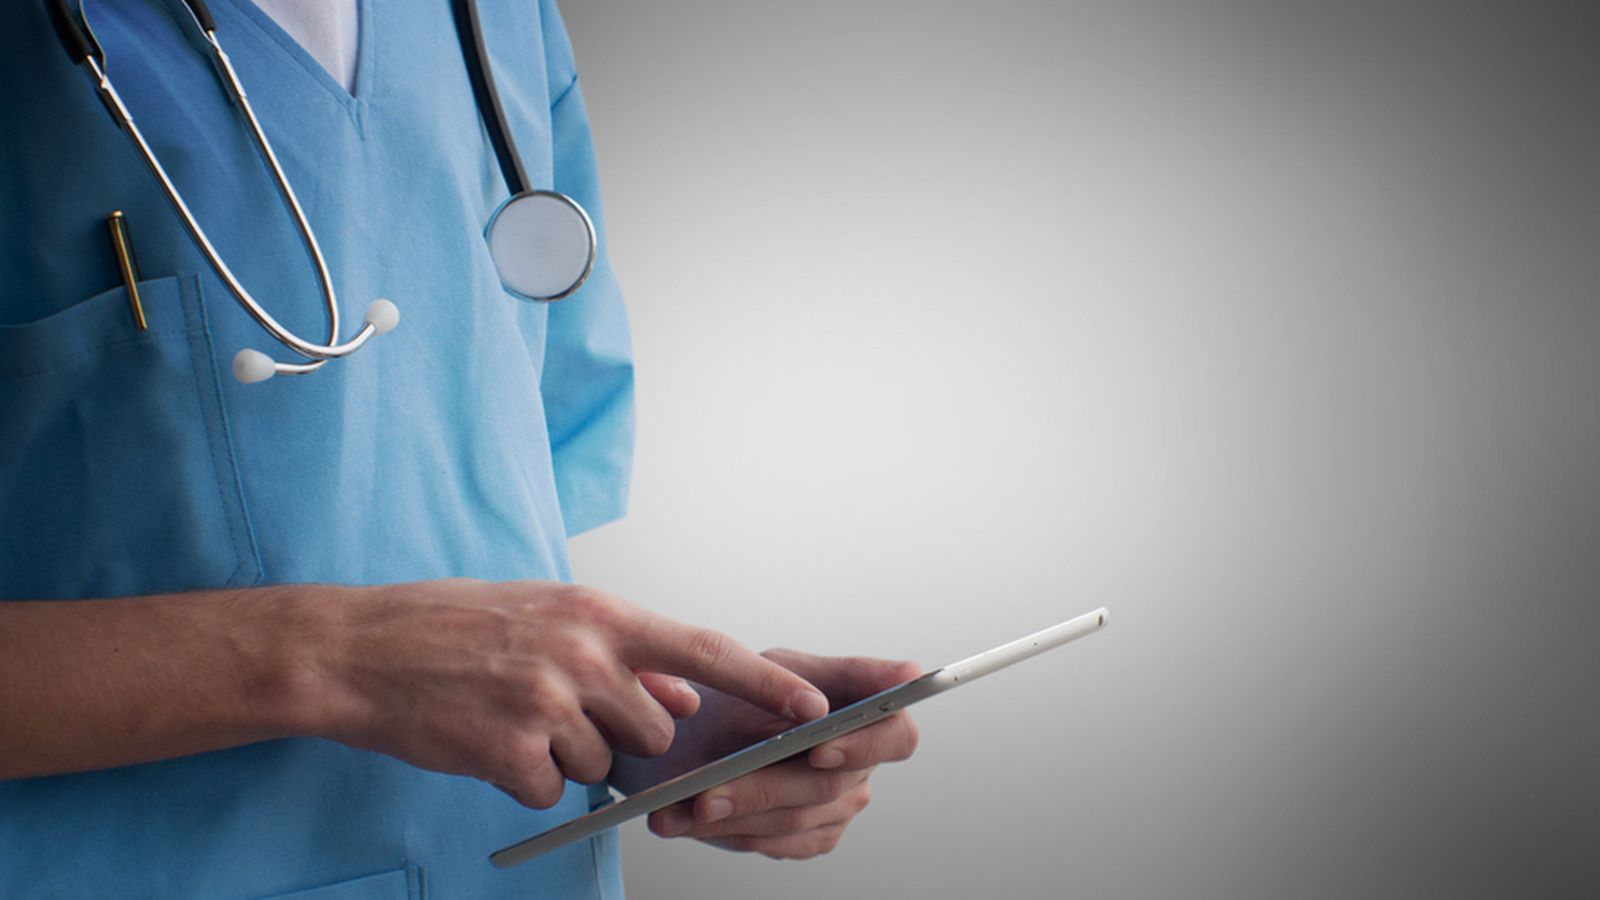
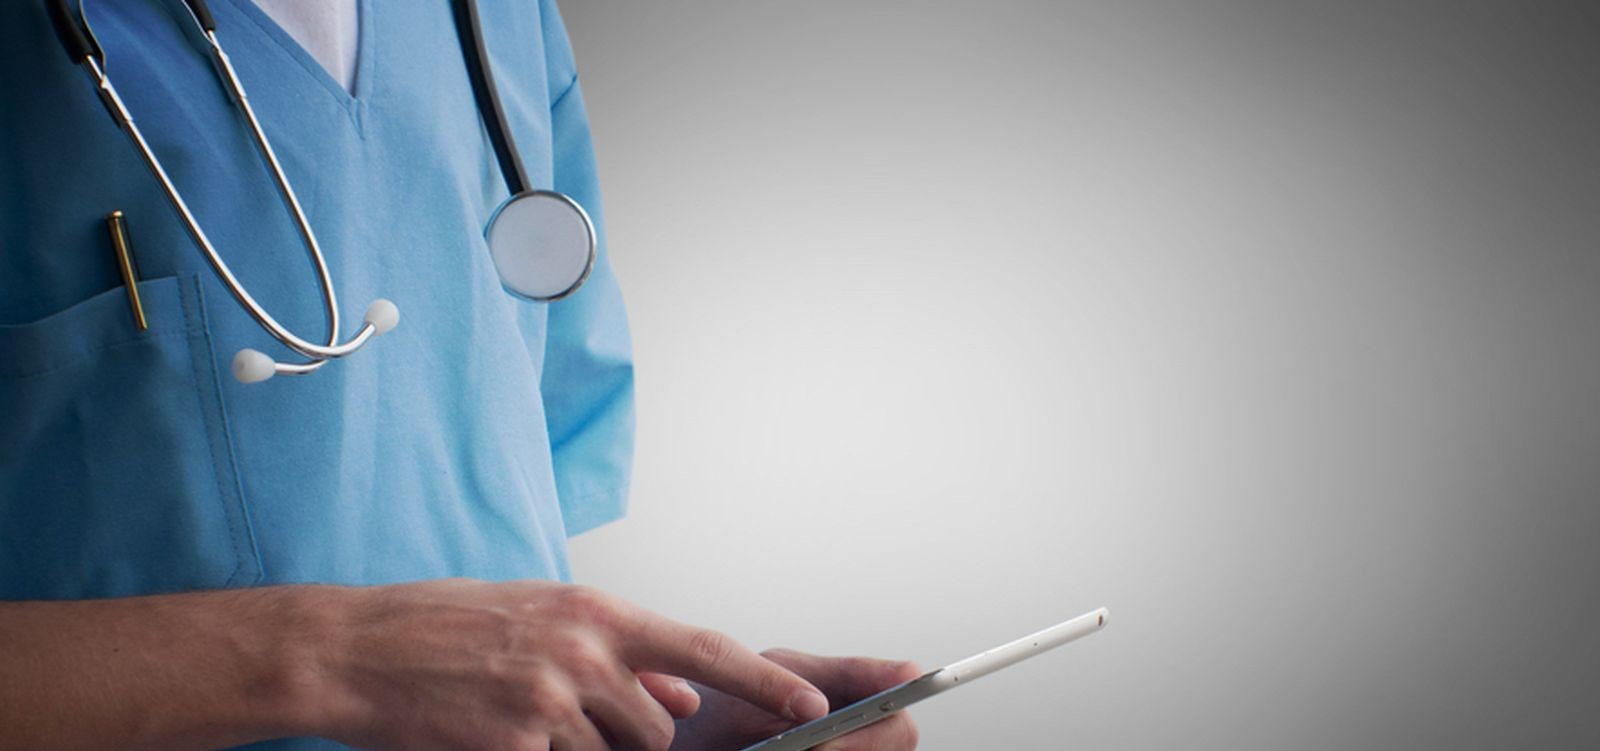
Login form completed

diff --git a/login/login.scss b/login/login.scss
@@ -1,6 +1,7 @@
 #backgroundImage{
     img{
-        height: 700px;
+        height: 701px;
+        width: 1515px;
         filter: blur(5px);
         opacity: 75%;
     }
@@ -49,16 +50,16 @@
     position: absolute;
     z-index: 1;
     // background-color: wheat;
-    left: 1095px;
+    left: 1020px;
     top: 180px;
     #shade{
         height: 400px;
-        width: 350px;
+        width: 450px;
         background-color: #FFF;
         border-radius: 18px;
         #form{
             height: 390px;
-            width: 340px;
+            width: 440px;
             background-color: #1CA7EC;
             border-radius: 18px;
             position: relative;
@@ -68,12 +69,59 @@
             h1{
                 position: relative;
                 top: 20px;
-                left: 57px;
+                left: 115px;
+                width: fit-content;
+                color: #FFF;
                 font-family: -apple-system, BlinkMacSystemFont, 'Segoe UI', Roboto, Oxygen, Ubuntu, Cantarell, 'Open Sans', 'Helvetica Neue', sans-serif;
             }
 
             p{
                 @extend h1;
+                left: 30px;
+                top: 5px;
+            }
+
+            form{
+                position: relative;
+                left: 32px;
+                top: 40px;
+
+                #uname, #pward{
+                    width: 350px;
+                    height: 40px;
+                    border-radius: 50px;
+                    border: none;
+                    padding-left: 20px;
+                    margin-bottom: 30px;
+                    font-family: -apple-system, BlinkMacSystemFont, 'Segoe UI', Roboto, Oxygen, Ubuntu, Cantarell, 'Open Sans', 'Helvetica Neue', sans-serif;
+                    
+                }
+
+                label{
+                    font-family: -apple-system, BlinkMacSystemFont, 'Segoe UI', Roboto, Oxygen, Ubuntu, Cantarell, 'Open Sans', 'Helvetica Neue', sans-serif;
+                    color: #FFF;
+                    font-weight: 500;
+                }
+
+                a{
+                    color: #FFF;
+                    text-decoration: none;
+                    position: relative;
+                    left: 100px;
+                    font-weight: 500;
+                    font-family: -apple-system, BlinkMacSystemFont, 'Segoe UI', Roboto, Oxygen, Ubuntu, Cantarell, 'Open Sans', 'Helvetica Neue', sans-serif;
+                }
+
+                #login{
+                    @extend #uname;
+                    background-color: #1F2F98;
+                    color: #FFF;
+                    width: 370px;
+                    margin-top: 10px;
+                    font-size: 20px; 
+                    text-transform: uppercase;
+                    font-weight: 700;             
+                }
             }
         }
     }

diff --git a/login/login.css b/login/login.css
@@ -1,5 +1,6 @@
 #backgroundImage img {
-  height: 700px;
+  height: 701px;
+  width: 1515px;
   filter: blur(5px);
   opacity: 75%;
 }
@@ -40,18 +41,18 @@
 #loginForm {
   position: absolute;
   z-index: 1;
-  left: 1095px;
+  left: 1020px;
   top: 180px;
 }
 #loginForm #shade {
   height: 400px;
-  width: 350px;
+  width: 450px;
   background-color: #FFF;
   border-radius: 18px;
 }
 #loginForm #shade #form {
   height: 390px;
-  width: 340px;
+  width: 440px;
   background-color: #1CA7EC;
   border-radius: 18px;
   position: relative;
@@ -61,8 +62,50 @@
 #loginForm #shade #form h1, #loginForm #shade #form p {
   position: relative;
   top: 20px;
-  left: 57px;
+  left: 115px;
+  width: fit-content;
+  color: #FFF;
   font-family: -apple-system, BlinkMacSystemFont, "Segoe UI", Roboto, Oxygen, Ubuntu, Cantarell, "Open Sans", "Helvetica Neue", sans-serif;
+}
+#loginForm #shade #form p {
+  left: 30px;
+  top: 5px;
+}
+#loginForm #shade #form form {
+  position: relative;
+  left: 32px;
+  top: 40px;
+}
+#loginForm #shade #form form #uname, #loginForm #shade #form form #login, #loginForm #shade #form form #pward {
+  width: 350px;
+  height: 40px;
+  border-radius: 50px;
+  border: none;
+  padding-left: 20px;
+  margin-bottom: 30px;
+  font-family: -apple-system, BlinkMacSystemFont, "Segoe UI", Roboto, Oxygen, Ubuntu, Cantarell, "Open Sans", "Helvetica Neue", sans-serif;
+}
+#loginForm #shade #form form label {
+  font-family: -apple-system, BlinkMacSystemFont, "Segoe UI", Roboto, Oxygen, Ubuntu, Cantarell, "Open Sans", "Helvetica Neue", sans-serif;
+  color: #FFF;
+  font-weight: 500;
+}
+#loginForm #shade #form form a {
+  color: #FFF;
+  text-decoration: none;
+  position: relative;
+  left: 100px;
+  font-weight: 500;
+  font-family: -apple-system, BlinkMacSystemFont, "Segoe UI", Roboto, Oxygen, Ubuntu, Cantarell, "Open Sans", "Helvetica Neue", sans-serif;
+}
+#loginForm #shade #form form #login {
+  background-color: #1F2F98;
+  color: #FFF;
+  width: 370px;
+  margin-top: 10px;
+  font-size: 20px;
+  text-transform: uppercase;
+  font-weight: 700;
 }
 
 /*# sourceMappingURL=login.css.map */

diff --git a/login/login.html b/login/login.html
@@ -20,6 +20,14 @@
             <div id="form">
                 <h1>LOGIN FORM</h1>
                 <p>Please enter a valid username and a password to login</p>
+                <form action="">
+                    <input type="text" id="uname" name="uname" placeholder="Enter Username"> <br>
+                    <input type="password" id="pward" name="pward" placeholder="Enter Password"> <br>
+                    <input type="checkbox" id="remember" name="remember"> 
+                    <label for="remember">Remember me</label>
+                    <a href=""> Forgot Password? </a> <br>
+                    <input type="submit" id="login" name="login" placeholder="Enter Username" value="Login"> <br>
+                </form>
             </div>
         </div>
     </div>
